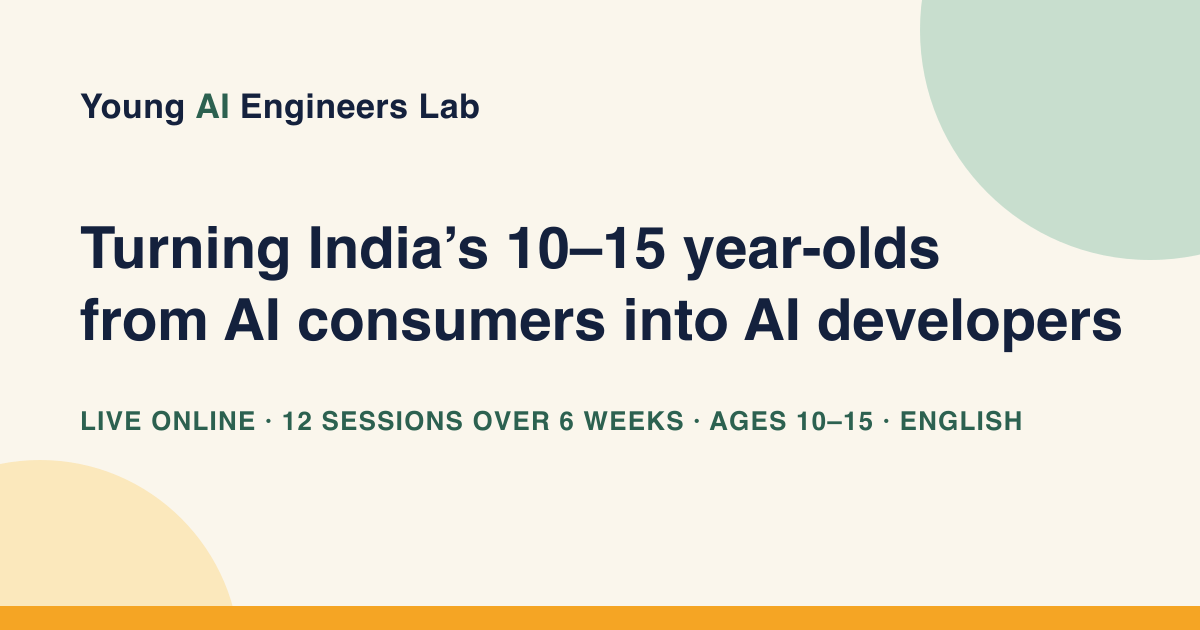
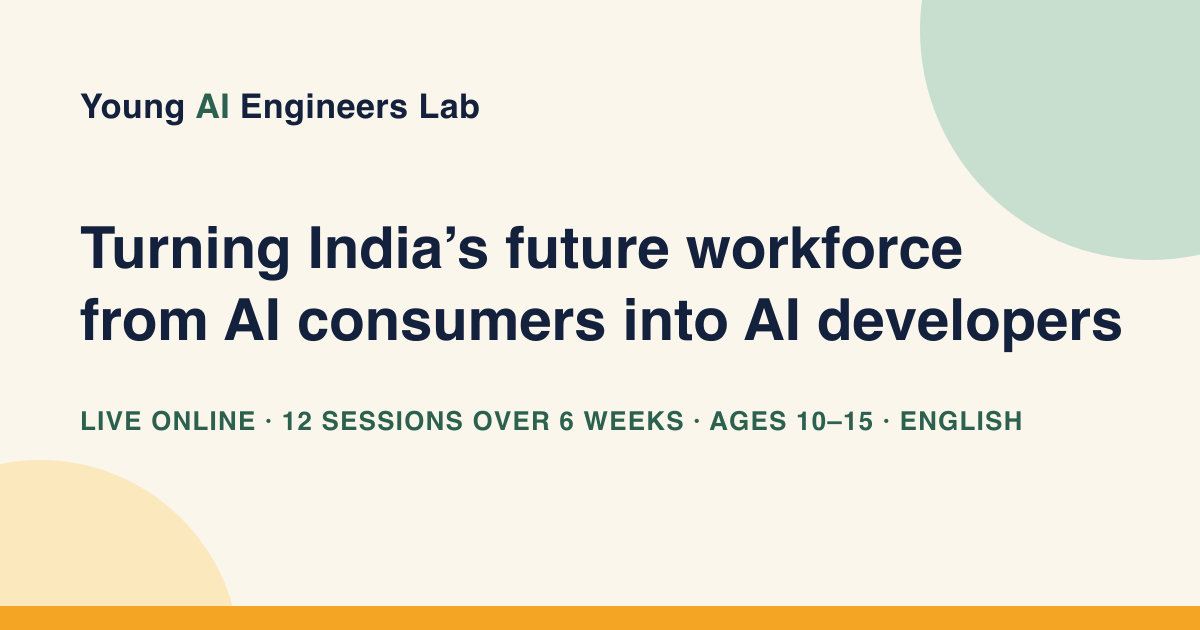
Sync main from tutor@8f0fbbf

Changed region(s): [[0.4008, 0.3619, 0.8017, 0.4524]]

diff --git a/src/seo.ts b/src/seo.ts
@@ -26,7 +26,7 @@ export const SITE_LOCALE = 'en_IN';
 /** 1200x630 PNG in public/ — see README note on replacing it with a designed asset. */
 export const OG_IMAGE_PATH = 'og-image.png';
 export const OG_IMAGE_ALT =
-  'The Young AI Engineers Lab — turning India’s 10–15 year-olds from AI consumers into AI developers';
+  'The Young AI Engineers Lab — turning India’s future workforce from AI consumers into AI developers';
 
 /**
  * Resolves a path against the deployed origin, preserving Astro's configured
